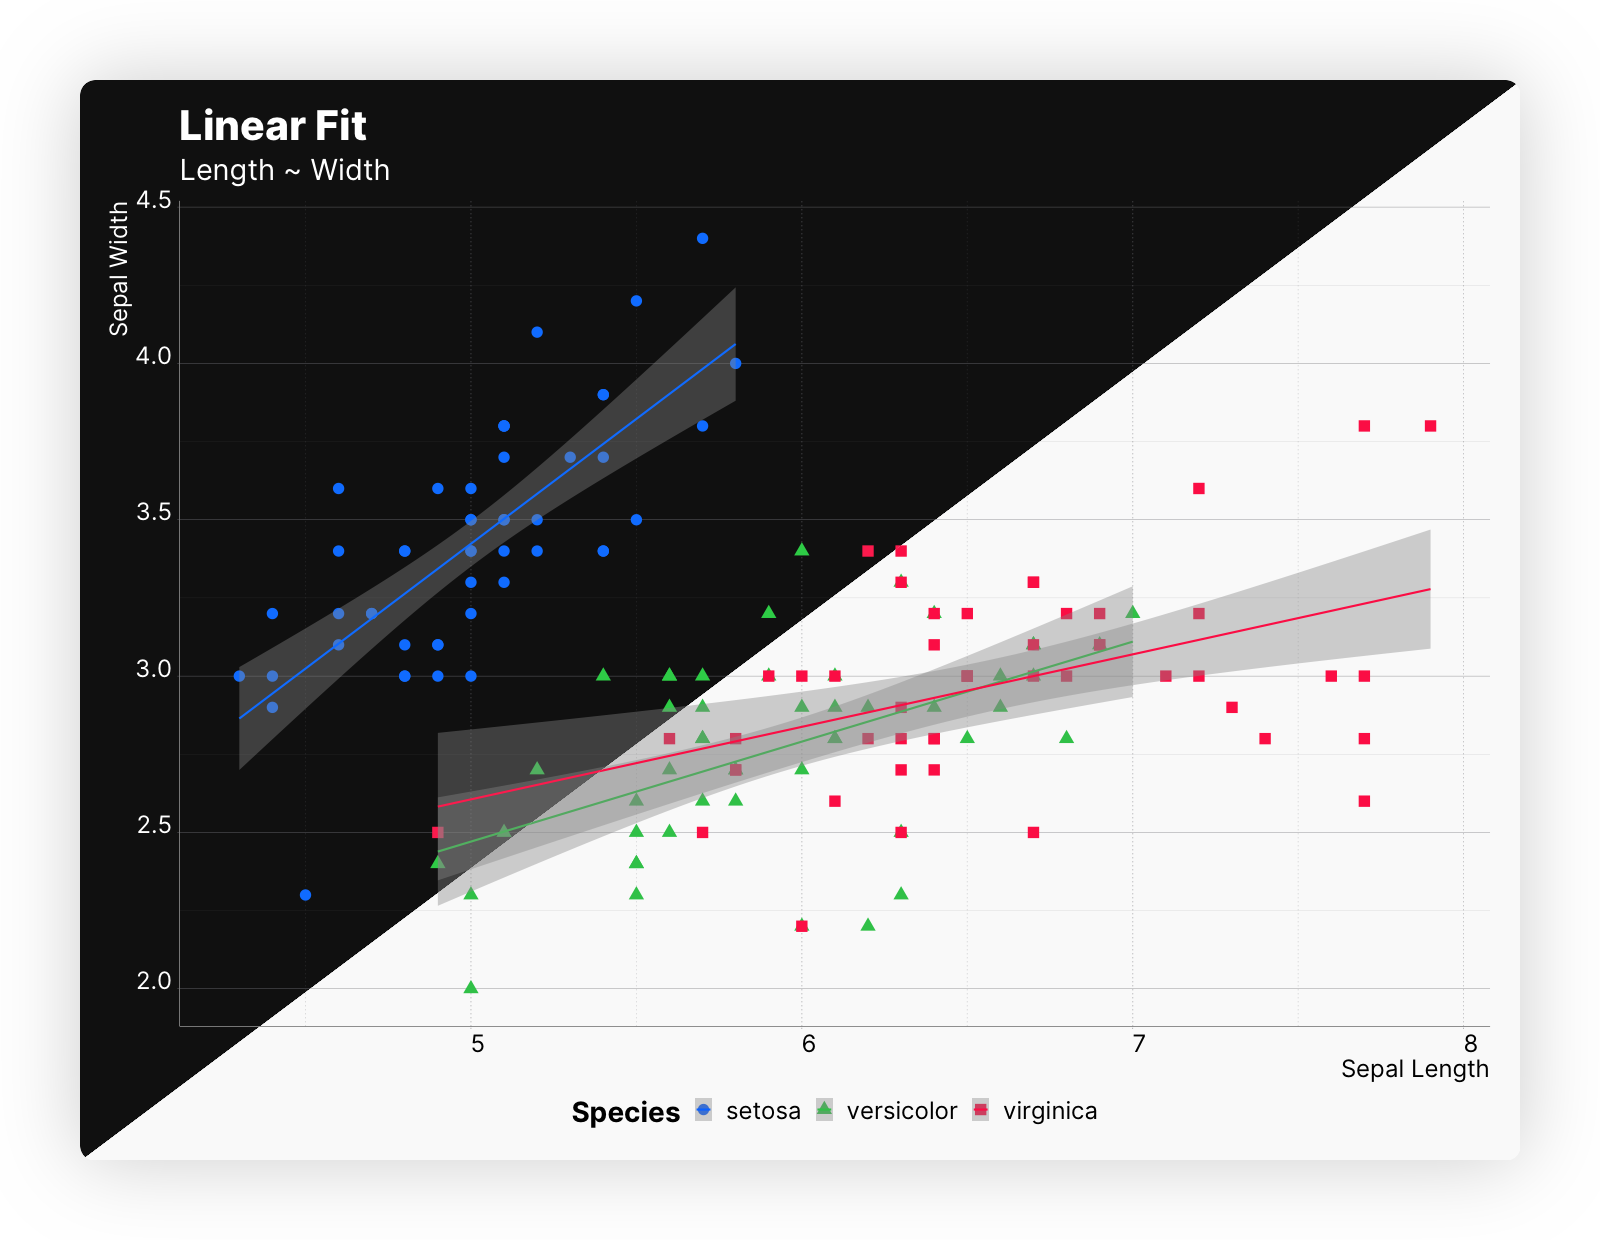
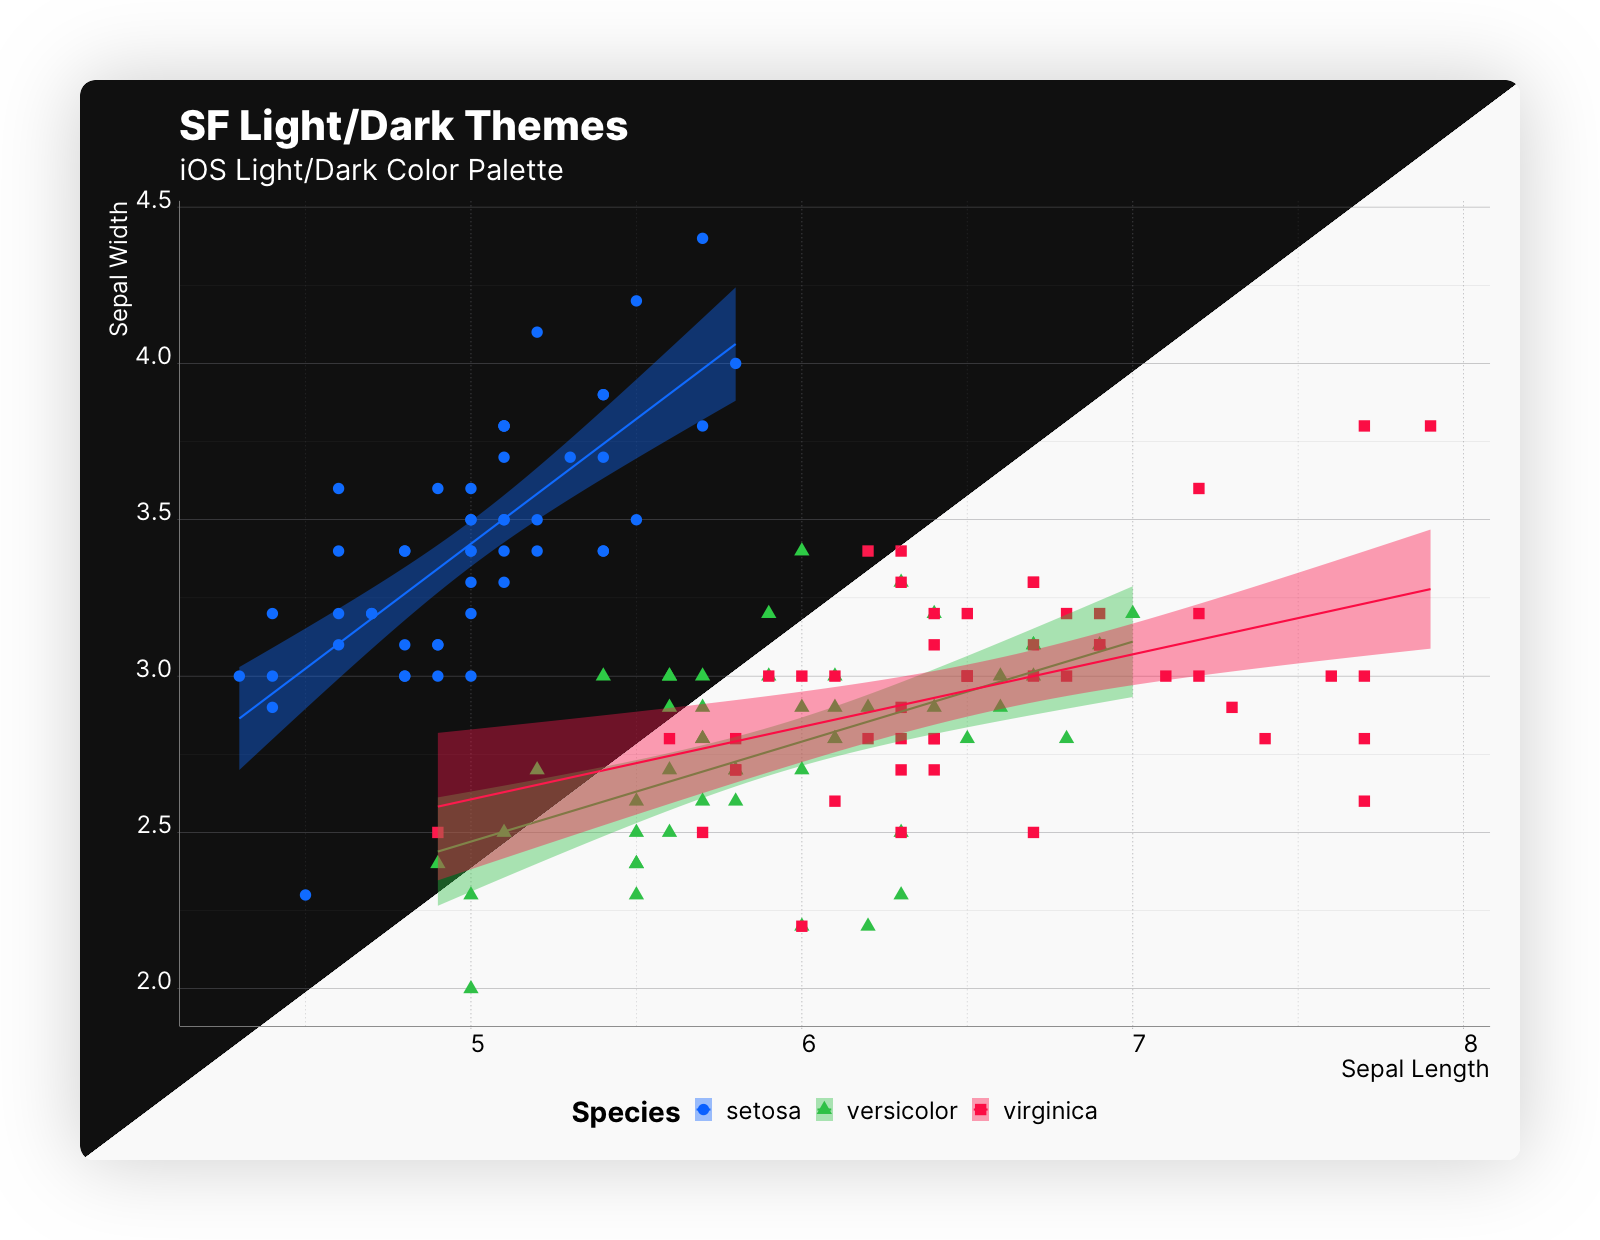
- improved the visual of the examples - added the codes to the documentation

diff --git a/README.md b/README.md
@@ -44,7 +44,26 @@ sfthemes offers two base themes, `theme_sf_light()` and `theme_sf_dark()`. The L
 In general, we recommend pairing light scales with `theme_sf_light` and dark scales with `theme_sf_dark` theme. Here we use `scale_colour_ios_light()`, and `scale_colour_ios_dark()` to recreate the figure above.
 
 ```R
-# TODO: Update the code when the plot is finalized
+library(ggplot2); library(sfthemes)
+
+gp <- ggplot(data = iris, aes(x = Sepal.Length, y = Sepal.Width, color = Species)) +
+        geom_point(aes(shape = Species)) + 
+        xlab("Sepal Length") + ylab("Sepal Width") +
+        labs(title = "SF Light/Dark Themes", 
+                subtitle = "iOS Light/Dark Color Palette") +
+        geom_smooth(method="lm", aes(fill = Species))
+
+# Light
+gp + theme_sf_light(size_class = "xxxLarge") +
+    scale_colour_ios_light(accessible = FALSE) +
+    scale_fill_ios_light(accessible = FALSE) +
+    theme(legend.position = "bottom")
+
+# Dark
+gp + theme_sf_dark(size_class = "xxxLarge") +
+    scale_colour_ios_dark(accessible = FALSE) +
+    scale_fill_ios_dark(accessible = FALSE) +
+    theme(legend.position = "bottom")
 ```
 
 | | |
@@ -58,7 +77,26 @@ Each color palette is accompanied with an accessible variant of itself. In order
 The [Colors](articles/colours.html) article elaborates on the availability, differences, and features of each system color palette.
 
 ```R
-# TODO: Update the code when the plot is finalized
+iris.sum <- iris %>%
+    group_by(Species) %>%
+    summarize(PW.mean= mean(Petal.Width),
+                PW.sd = sd(Petal.Width))
+
+gp <- ggplot(data = iris.sum, aes(x = Species)) +
+        geom_bar(aes(y = PW.mean, fill = Species, color = Species), position = "dodge", stat = "identity") +
+        geom_errorbar(aes(ymin = PW.mean - PW.sd, ymax = PW.mean + PW.sd), width = 0.5, position = position_dodge(width = 0.5), color = "black") + 
+        labs(title = "SF Light Theme", subtitle = "iOS Light Color Palette - Normal vs. Accessible", y = "Mean Petal Width", x = "Species") 
+# Normal
+gp + theme_sf_light(size_class = "xxxLarge") +
+    scale_colour_ios_light(accessible = FALSE) +
+    scale_fill_ios_light(accessible = FALSE) +
+    theme(legend.position = "bottom")
+
+# Accessible
+gp + theme_sf_light(size_class = "xxxLarge") +
+    scale_colour_ios_light(accessible = TRUE) +
+    scale_fill_ios_light(accessible = TRUE) +
+    theme(legend.position = "bottom")
 ```
 
 | | |
@@ -73,7 +111,26 @@ sfthemes provides 7 scaling factor. Scaling factors can be applied to text, elem
 The [Scales](articles/colours.html) article elaborates on the dynamic type sizing.
 
 ```R
-# TODO: Update the code when the plot is finalized
+size_class <- "Medium"
+
+gp <- ggplot(data = iris, aes(x = Sepal.Length, y = Sepal.Width, color = Species)) +
+        geom_point(aes(shape = Species)) + 
+        xlab("Sepal Length") + ylab("Sepal Width") +
+        labs(title = "SF Light/Dark Theme", 
+                subtitle = paste0("Size Class: ", size_class) +
+        geom_smooth(method="lm", aes(fill = Species))
+
+# Light
+gp + theme_sf_light(size_class = size_class) +
+    scale_colour_ios_light(accessible = FALSE) +
+    scale_fill_ios_light(accessible = FALSE) +
+    theme(legend.position = "bottom")
+
+# Dark
+gp + theme_sf_dark(size_class = size_class) +
+        scale_colour_ios_dark(accessible = FALSE) +
+        scale_fill_ios_dark(accessible = FALSE) +
+        theme(legend.position = "bottom")
 ```
 
 ![](man/figures/front-page-scaling-animation-light-dark.gif)
